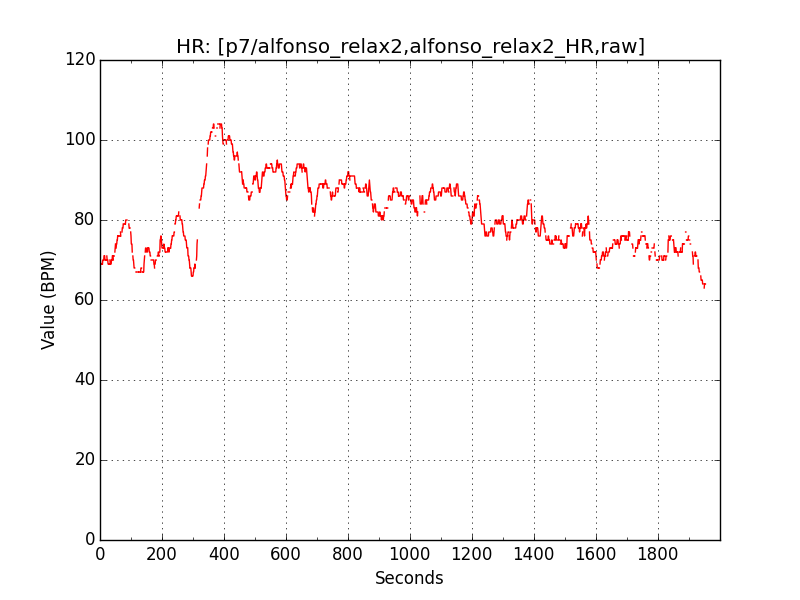
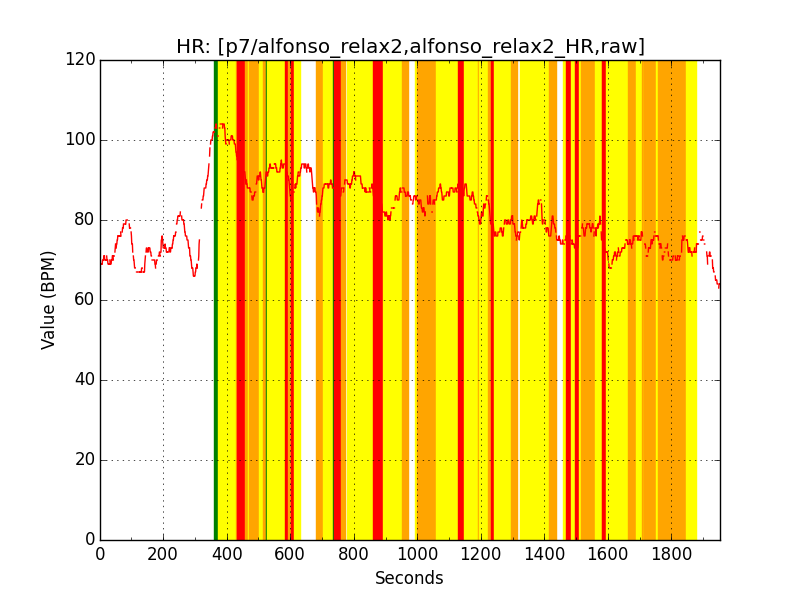
added transcript data

diff --git a/process.py b/process.py
@@ -317,10 +317,60 @@ if (__name__ == "__main__"):
 		for seg in s._dataANXIETYRANGES:
 			_s,_e,_l = seg
 			if (_l != -1):
-				hrfe = HRFeatureExtractor(s._dataZEPHYR_HR[_s:_e])
-				print _l,",",hrfe.extract()
-				htr = HalfRecoveryTimeDetector(_data[_s:_e])
-				#plotGSR("p9/sandra_relax","sandra_relax_GSR%i_%i" %(_s,_e),s,_limy=[0.0,10.0],_limx=[_s,_e])
-				#plotHR_ZEPHYR("p9/sandra_relax","sandra_relax_HR_%i_%i" %(_s,_e),s,_limx=[_s,_e],_limy=[0,120])
-				print _l,",",htr.toCSV()
-				print "------------"
+                                try:
+                                    hrfe = HRFeatureExtractor(s._dataZEPHYR_HR[_s:_e])
+                                    print _l,",",hrfe.extract()
+                                    htr = HalfRecoveryTimeDetector(_data[_s:_e])
+                                    #plotGSR("p9/sandra_relax","sandra_relax_GSR%i_%i" %(_s,_e),s,_limy=[0.0,10.0],_limx=[_s,_e])
+                                    #plotHR_ZEPHYR("p9/sandra_relax","sandra_relax_HR_%i_%i" %(_s,_e),s,_limx=[_s,_e],_limy=[0,120])
+                                    print _l,",",htr.toCSV()
+                                    print "------------"
+                                except:
+                                    pass
+                """
+                s = session("p7/alfonso_relax/1434064078558/")
+                plotGSR("p7/alfonso_relax","alfonso_relax_GSR",s,_limy=[0.0,20.0])
+                plotTEMP("p7/alfonso_relax","alfonso_TEMP",s,_limy=[30,40])
+                plotHR_ZEPHYR("p7/alfonso_relax","alfonso_relax_HR",s,_limy=[0,120])
+                plotIBI_ZEPHYR("p7/alfonso_relax","alfonso_relax_IBI",s,_limy=[0.4,1])
+                _data = s.groupBySec(s._dataGSR,True,False)
+                htr = HalfRecoveryTimeDetector(_data)
+                htr.plot("p7/alfonso_relax/plots/alfonso_relax_htr",_ylim=[0,20])
+                """
+                ######session2###################
+                s = session("p7/alfonso_relax2/1434495734670/")
+                plotGSR("p7/alfonso_relax2","alfonso_relax2_GSR",s,_limy=[0.0,20.0])
+                #plotTEMP("p7/alfonso_relax2","alfonso_relax2_TEMP",s,_limy=[30,40])
+                plotHR_ZEPHYR("p7/alfonso_relax2","alfonso_relax2_HR",s,_limy=[0,120])
+                #plotIBI_ZEPHYR("p7/alfonso_relax2","alfonso_relax2_IBI",s,_limy=[0.4,1])
+                _data = s.groupBySec(s._dataGSR,True,False)
+                htr = HalfRecoveryTimeDetector(_data)
+                htr.plot("p7/alfonso_relax2/plots/alfonso_relax2_htr",_ylim=[0,20])
+
+		s.getAnxious()
+		_dataAvgBySec = s.groupBySec(s._dataZEPHYR_HR,False,True)
+		for seg in s._dataANXIETYRANGES:
+			_s,_e,_l = seg
+			if (_l != -1):
+                                try:
+                                    hrfe = HRFeatureExtractor(s._dataZEPHYR_HR[_s:_e])
+                                    #print _l,",",hrfe.extract()
+                                    htr = HalfRecoveryTimeDetector(_data[_s:_e])
+                                    plotGSR("p7/alfonso_relax2","alfonso_relax2_GSR_%i_%i" %(_s,_e),s,_limy=[0.0,20.0],_limx=[_s,_e])
+                                    plotHR_ZEPHYR("p7/alfonso_relax2","alfonso_relax2_%i_%i" %(_s,_e),s,_limy=[0,120],_limx=[_s,_e])
+                                    #print _l,",",htr.toCSV()
+                                    #print "------------"
+                                except:
+                                    pass
+                """
+
+                s = session("p7/alfonso_relax3/1435275565320/")
+                plotGSR("p7/alfonso_relax3","alfonso_relax3_GSR",s,_limy=[0.0,20.0])
+                plotTEMP("p7/alfonso_relax3","alfonso_relax3_TEMP",s,_limy=[30,40])
+                plotHR_ZEPHYR("p7/alfonso_relax3","alfonso_relax3_HR",s,_limy=[0,120])
+                plotIBI_ZEPHYR("p7/alfonso_relax3","alfonso_relax3_IBI",s,_limy=[0.4,1])
+                _data = s.groupBySec(s._dataGSR,True,False)
+                htr = HalfRecoveryTimeDetector(_data)
+                htr.plot("p7/alfonso_relax3/plots/alfonso_relax3_htr",_ylim=[0,20])
+                print "p7 done"
+                """

diff --git a/syncer.py b/syncer.py
@@ -29,15 +29,23 @@ def usage():
     print "Python utility to generate synced transcripts data"
     print ""
     print "USAGE:"
-    print "     python syncer.py <file_path> <diff_time> <session_time>"
+    print "     python syncer.py <file_path> <diff_time> <session_time> [-s]" 
     print "         <diff_time> Time in seconds to sync."
     print "         <session_time> Time in unix time when the session starts."
+    print "         -s  shows timestamp in unixtime and seconds"
+
 import sys
 
 try:
     _file = sys.argv[1]
     _difftime = int(sys.argv[2])
     _session_time = float(sys.argv[3])
+    try:
+        _secs_flag = str(sys.argv[4])
+        if (_secs_flag == "-s"):
+            _secs_flag = True
+    except:
+        _secs_flag = False
 except:
     usage()
     sys.exit(1)
@@ -50,4 +58,7 @@ with open(_file,"r") as _FILE:
 		_startn,_textn = find_between(_ln,"#","#")
 		_end = deduct_secs(_startn)
 		_to_secs = to_secs(_start)
-		print (_to_secs + _difftime) +_session_time,"\t", _text.replace("\n","")
+                if not (_secs_flag):
+                    print (_to_secs + _difftime) +_session_time,"\t", _text.replace("\n","")
+                else:
+                    print (_to_secs + _difftime),"\t", _text.replace("\n","")
